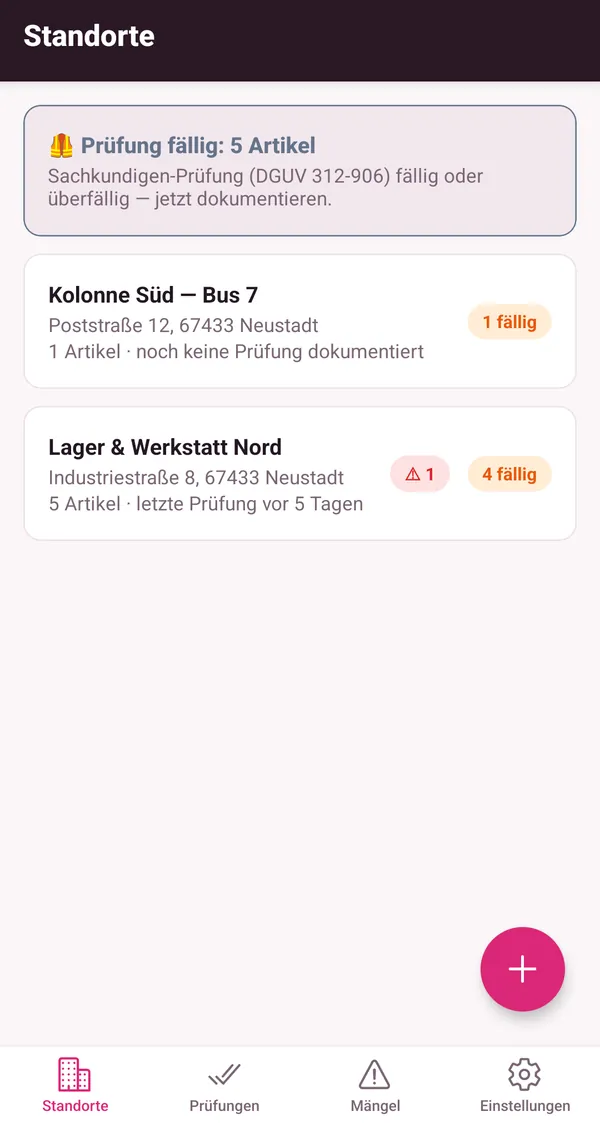
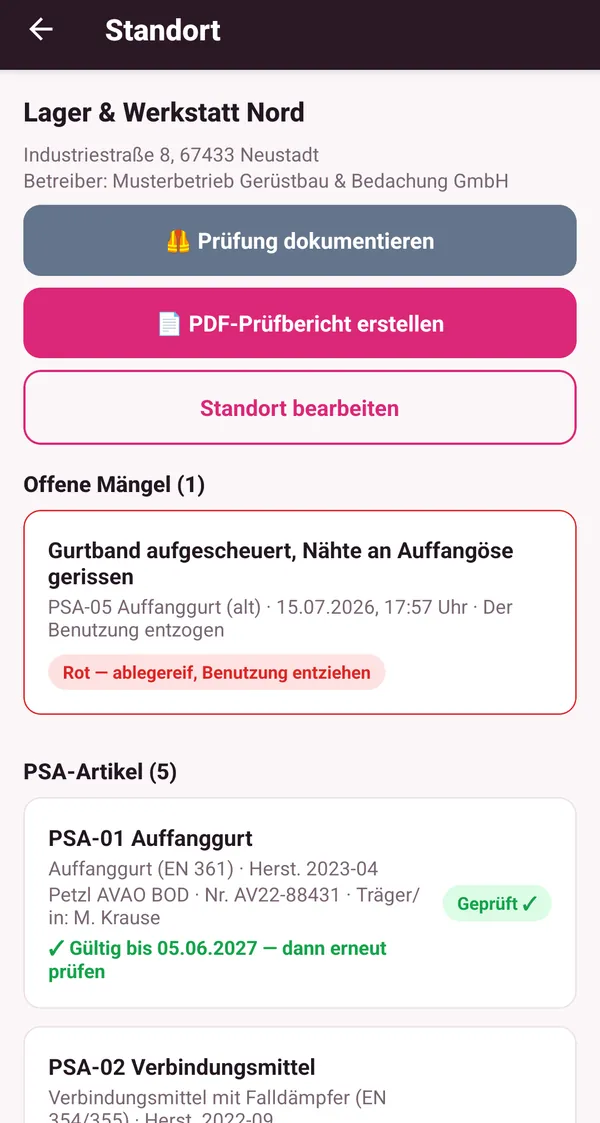
Landing: aussagekraeftigere Screenshots, Dashboard-Link direkt zu GurtDex

diff --git a/index.html b/index.html
@@ -290,8 +290,8 @@
           <ul class="ticks"><li><svg class="i" viewBox="0 0 24 24" fill="none" stroke="currentColor" stroke-width="1.8" stroke-linecap="round" stroke-linejoin="round" aria-hidden="true"><path d="M20 6 9 17l-5-5" /></svg>Ablegereife-Wächter</li><li><svg class="i" viewBox="0 0 24 24" fill="none" stroke="currentColor" stroke-width="1.8" stroke-linecap="round" stroke-linejoin="round" aria-hidden="true"><path d="M20 6 9 17l-5-5" /></svg>Einträge unveränderlich</li><li><svg class="i" viewBox="0 0 24 24" fill="none" stroke="currentColor" stroke-width="1.8" stroke-linecap="round" stroke-linejoin="round" aria-hidden="true"><path d="M20 6 9 17l-5-5" /></svg>GPS + Foto automatisch</li></ul>
         </div>
         <div class="shots" aria-label="Screenshots der App">
-          <div class="phone a"><div class="screen" style="--bar:#2b1826"><img src="assets/shots/hero-1.webp" width="600" height="1123" alt="GurtDex: Standorte mit fälligen Prüfungen" decoding="async"></div></div>
-          <div class="phone b"><div class="screen" style="--bar:#2b1826"><img src="assets/shots/hero-2.webp" width="600" height="1123" alt="GurtDex: Artikel mit Ablegereife-Warnung" decoding="async"></div></div>
+          <div class="phone a"><div class="screen" style="--bar:#2b1826"><img src="assets/shots/hero-1.webp" width="600" height="1123" alt="GurtDex: Standort mit PSA-Artikeln und offenen Mängeln" decoding="async"></div></div>
+          <div class="phone b"><div class="screen" style="--bar:#2b1826"><img src="assets/shots/hero-2.webp" width="600" height="1123" alt="GurtDex: Checkliste nach DGUV G 312-906" decoding="async"></div></div>
         </div>
       </div>
     </div>
@@ -342,7 +342,7 @@
             <li><b>Bericht teilen</b><p>PDF an Geschäftsführung, SiFa, Berufsgenossenschaft oder Auftraggeber schicken.</p></li>
           </ol>
         </div>
-        <div class="rv"><div class="phone lazy"><div class="screen" style="--bar:#2b1826"><img src="assets/shots/ablauf.webp" width="600" height="1123" alt="GurtDex: geführte Prüfung" decoding="async" loading="lazy"></div></div></div>
+        <div class="rv"><div class="phone lazy"><div class="screen" style="--bar:#2b1826"><img src="assets/shots/ablauf.webp" width="600" height="1123" alt="GurtDex: Ablegereife-Warnung je Artikel" decoding="async" loading="lazy"></div></div></div>
       </div>
     </section>
 
@@ -394,7 +394,7 @@
           <details><summary>Was heißt „ablegereif"?<svg class="i" viewBox="0 0 24 24" fill="none" stroke="currentColor" stroke-width="1.8" stroke-linecap="round" stroke-linejoin="round" aria-hidden="true"><path d="m6 9 6 6 6-6" /></svg></summary><div class="a">Ein Artikel darf nicht mehr benutzt werden — wegen Beschädigung, nach einer Sturzbelastung oder weil die Gebrauchsdauer laut Hersteller erreicht ist (textil typisch 6–10 Jahre). GurtDex markiert ablegereife Artikel rot und dokumentiert die Aussonderung.</div></details>
           <details><summary>Kann ich Prüfungen nachträglich ändern?<svg class="i" viewBox="0 0 24 24" fill="none" stroke="currentColor" stroke-width="1.8" stroke-linecap="round" stroke-linejoin="round" aria-hidden="true"><path d="m6 9 6 6 6-6" /></svg></summary><div class="a">Nein — genau das macht den Nachweis belastbar. Prüfungen sind unveränderlich, ein Storno ist nur gekennzeichnet und mit Begründung möglich.</div></details>
           <details><summary>Funktioniert GurtDex auch für mein Team?<svg class="i" viewBox="0 0 24 24" fill="none" stroke="currentColor" stroke-width="1.8" stroke-linecap="round" stroke-linejoin="round" aria-hidden="true"><path d="m6 9 6 6 6-6" /></svg></summary><div class="a">Ja. Der Chef lädt Mitarbeiter per Betriebscode ein, alle dokumentieren unter einem Betrieb, jede Prüfung zeigt den Prüfer.</div></details>
-          <details><summary>Gibt es GurtDex auch am PC?<svg class="i" viewBox="0 0 24 24" fill="none" stroke="currentColor" stroke-width="1.8" stroke-linecap="round" stroke-linejoin="round" aria-hidden="true"><path d="m6 9 6 6 6-6" /></svg></summary><div class="a">Ja, im <a href="https://dashboard.dexware.app">Dexware-Dashboard</a> siehst du Standorte, Prüfungen, Ablegereife und Prüfberichte im Browser.</div></details>
+          <details><summary>Gibt es GurtDex auch am PC?<svg class="i" viewBox="0 0 24 24" fill="none" stroke="currentColor" stroke-width="1.8" stroke-linecap="round" stroke-linejoin="round" aria-hidden="true"><path d="m6 9 6 6 6-6" /></svg></summary><div class="a">Ja, im <a href="https://dashboard.dexware.app/app/gurtdex">Dexware-Dashboard</a> siehst du Standorte, Prüfungen, Ablegereife und Prüfberichte im Browser.</div></details>
           <details><summary>Wo liegen meine Daten?<svg class="i" viewBox="0 0 24 24" fill="none" stroke="currentColor" stroke-width="1.8" stroke-linecap="round" stroke-linejoin="round" aria-hidden="true"><path d="m6 9 6 6 6-6" /></svg></summary><div class="a">In einem EU-Rechenzentrum in Frankfurt. Keine Werbung, kein Tracking, kein Datenverkauf — Details in der <a href="datenschutz.html">Datenschutzerklärung</a>.</div></details>
         </div>
       </div>
